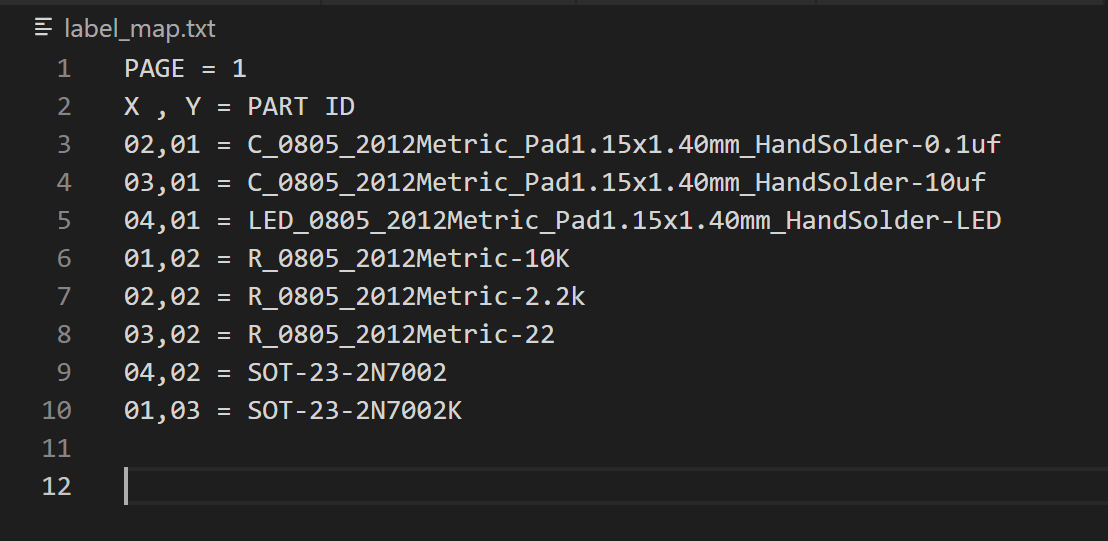
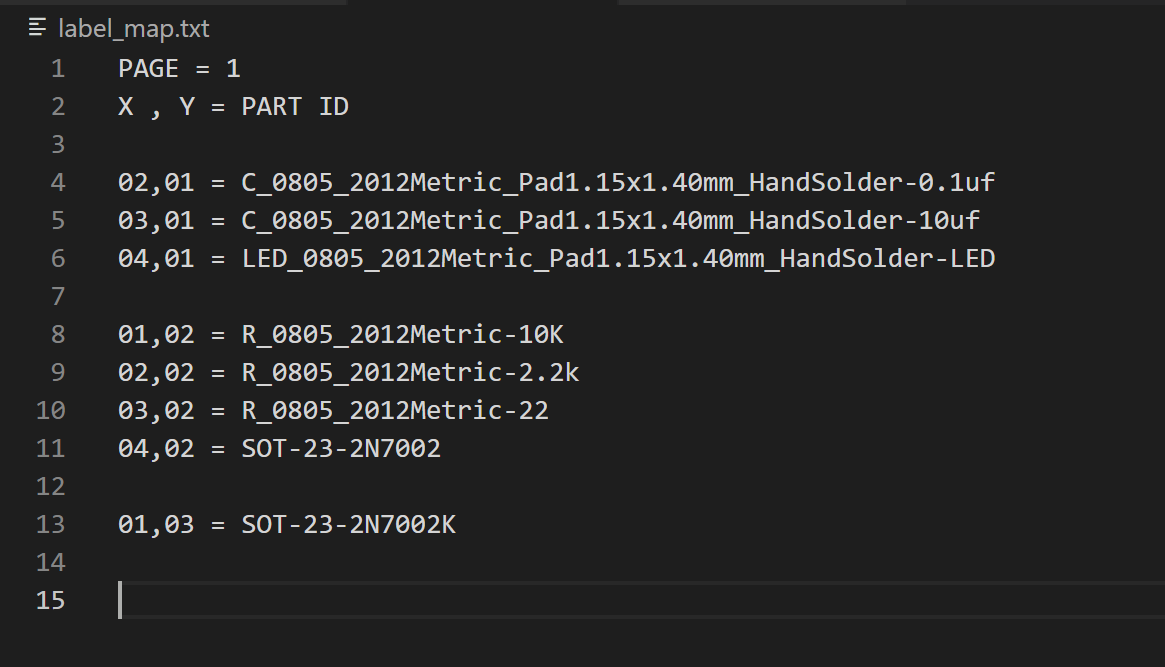
better formatting

diff --git a/generate_labels.py b/generate_labels.py
@@ -72,13 +72,13 @@ def create_page(pageNumber, labelList, startIndex = 0):
     currentDirectory = get_current_directory()
     labelsDirectory = os.path.join(currentDirectory, "labels")
 
-    exportFile =  os.path.join(currentDirectory, "print_labels_" + str(pageNumber) + ".png")
+    exportFile =  os.path.join(currentDirectory, "print_labels_" + str(pageNumber + 1) + ".png")
     img = Image.new('RGB', (pageWidth, pageHeight), color = 'white')
 
     labelMapPath =  os.path.join(currentDirectory, "label_map.txt")
     labelMap = open(labelMapPath, "a")
     labelMap.write("PAGE = " + str(pageNumber + 1) + "\n")
-    labelMap.write("X , Y = PART ID\n")
+    labelMap.write("X , Y = PART ID\n\n")
 
     labelIndex = 0
     rowIndex = 0
@@ -104,6 +104,7 @@ def create_page(pageNumber, labelList, startIndex = 0):
         if rowIndex > columns - 1:
             rowIndex = 0
             columnIndex += 1
+            labelMap.write("\n")
 
     img.save(exportFile)
     labelMap.write("\n")
